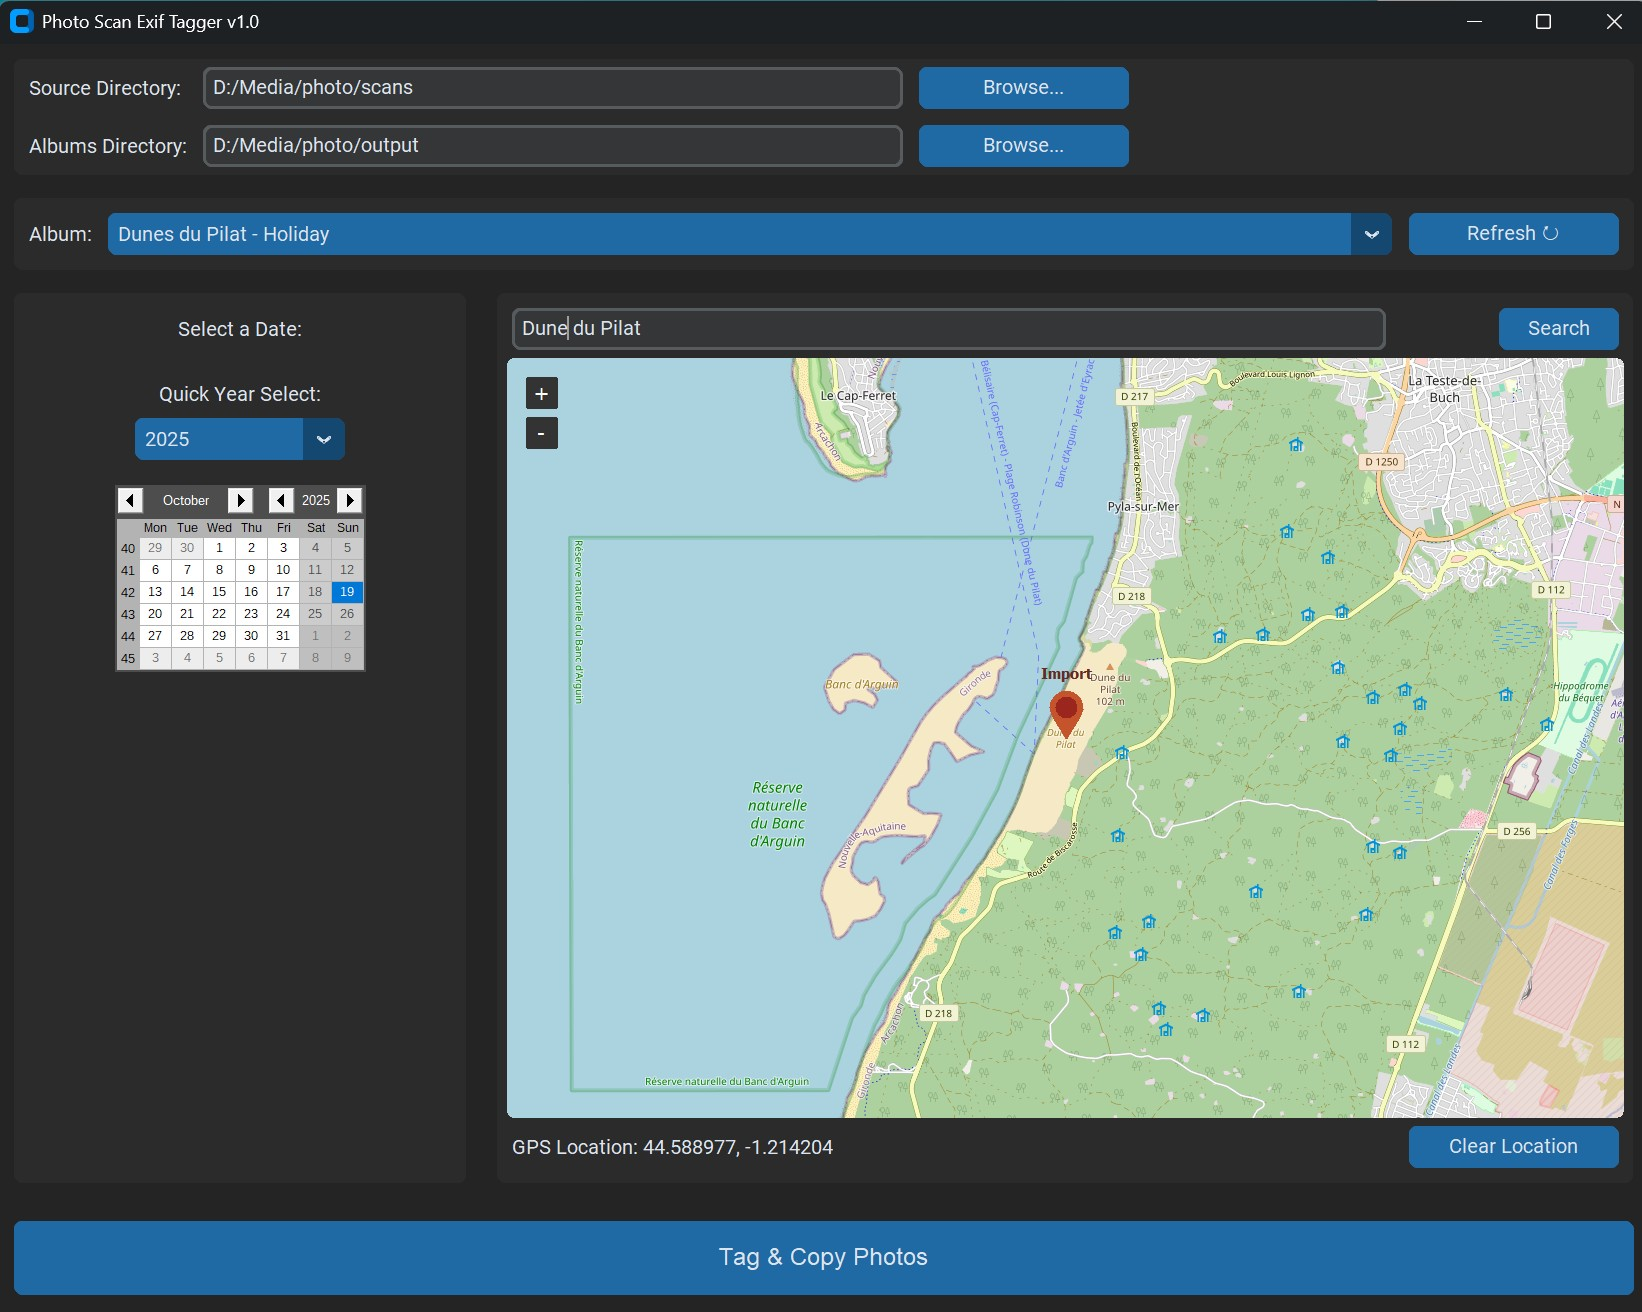
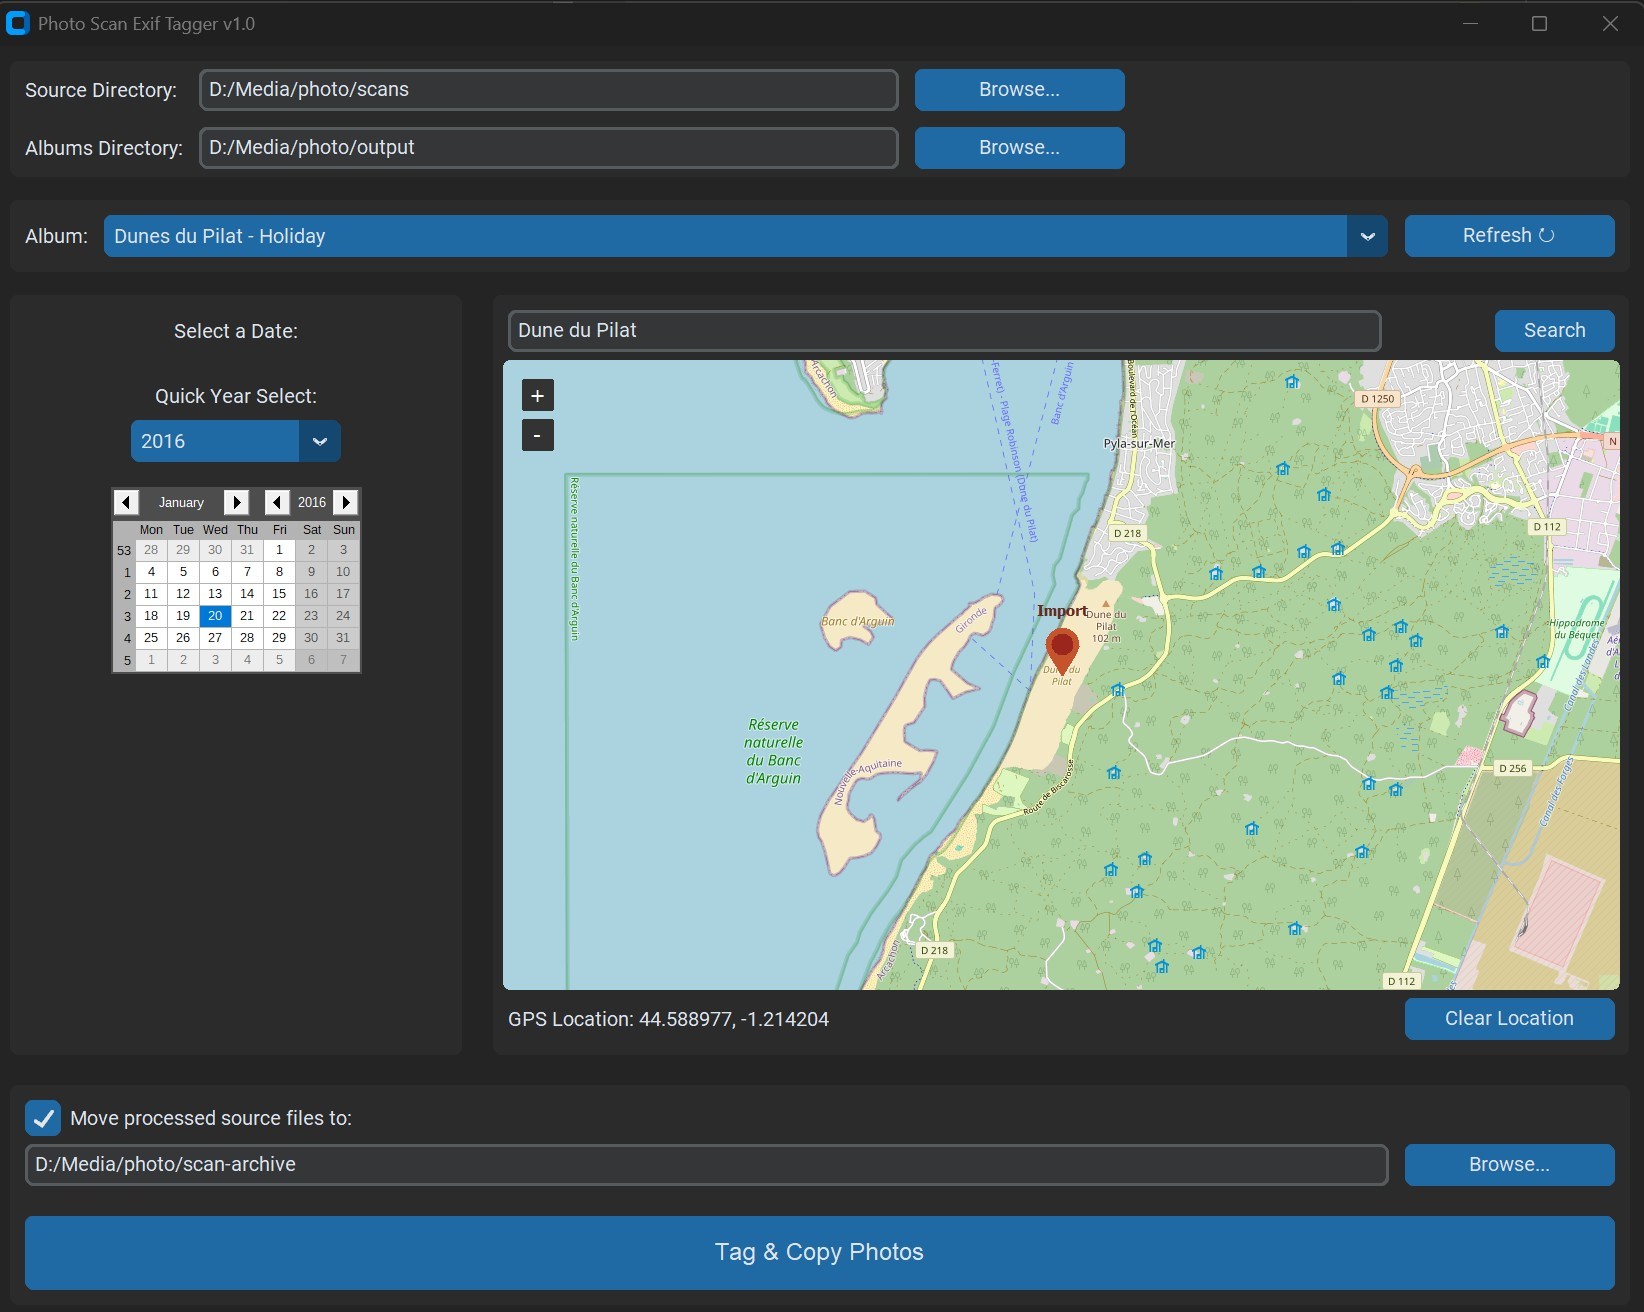
optional move to archive folder

diff --git a/tagger.py b/tagger.py
@@ -26,6 +26,11 @@ class PhotoImporterApp(ctk.CTk):
         self.selected_album = ctk.StringVar()
         self.selected_gps = None  # Will store (latitude, longitude)
         self.map_marker = None
+        
+        # --- NEW: Variables for Move feature ---
+        self.enable_move = ctk.BooleanVar(value=False)
+        self.move_dest_dir = ctk.StringVar()
+        # -------------------------------------
 
         # Configure the main grid
         # Column 1 (map) will be wider
@@ -158,8 +163,38 @@ class PhotoImporterApp(ctk.CTk):
 
     ## 5. Action (Import) Widget
     def create_action_widgets(self):
-        self.import_button = ctk.CTkButton(self, text="Tag & Copy Photos", height=50, command=self.run_import, font=("Arial", 16))
-        self.import_button.grid(row=3, column=0, columnspan=2, padx=10, pady=15, sticky="ew")
+        # Create a frame to hold all action widgets
+        action_frame = ctk.CTkFrame(self)
+        action_frame.grid(row=3, column=0, columnspan=2, padx=10, pady=10, sticky="ew")
+        
+        action_frame.grid_columnconfigure(1, weight=1) # Make entry field expand
+
+        # --- NEW: Move "Archive" Option ---
+        self.move_checkbox = ctk.CTkCheckBox(action_frame, 
+                                             text="Move processed source files to:",
+                                             variable=self.enable_move,
+                                             command=self.toggle_move_widgets)
+        self.move_checkbox.grid(row=0, column=0, padx=(10, 5), pady=(10, 5), sticky="w")
+        
+        self.move_entry = ctk.CTkEntry(action_frame, 
+                                       textvariable=self.move_dest_dir, 
+                                       state="disabled")
+        self.move_entry.grid(row=1, column=0, columnspan=2, padx=(10, 5), pady=(0, 10), sticky="ew")
+        
+        self.move_browse_button = ctk.CTkButton(action_frame, 
+                                                text="Browse...", 
+                                                state="disabled", 
+                                                command=self.select_move_dest)
+        self.move_browse_button.grid(row=1, column=2, padx=(5, 10), pady=(0, 10))
+        # --- End New Widgets ---
+
+        # Main Import Button
+        self.import_button = ctk.CTkButton(action_frame, 
+                                           text="Tag & Copy Photos", 
+                                           height=50, 
+                                           command=self.run_import, 
+                                           font=("Arial", 16))
+        self.import_button.grid(row=2, column=0, columnspan=3, padx=10, pady=(10, 10), sticky="ew")
 
     def select_source(self):
         path = filedialog.askdirectory(title="Select Source Directory")
@@ -170,16 +205,20 @@ class PhotoImporterApp(ctk.CTk):
         path = filedialog.askdirectory(title="Select Target Directory (parent of albums)")
         if path:
             self.target_dir.set(path)
-
+            
+            # --- NEW CHECK ---
             try:
+                # Check for subdirectories (albums)
                 subdirs = [d for d in os.listdir(path) if os.path.isdir(os.path.join(path, d))]
                 if not subdirs:
                     messagebox.showwarning("Empty Directory", 
                                          "This folder is empty.\n\nThe 'Albums Directory' should be a parent folder that already contains subfolders (albums).")
             except Exception as e:
                 messagebox.showerror("Error", f"Could not read directory: {e}")
+            # --- END CHECK ---
             
             self.refresh_albums() # This will still run to update the list
+            
     def refresh_albums(self):
         target = self.target_dir.get()
         if not os.path.isdir(target):
@@ -234,11 +273,35 @@ class PhotoImporterApp(ctk.CTk):
             self.map_marker.delete()
             self.map_marker = None
 
+    def toggle_move_widgets(self):
+        """Enables or disables the 'Move to' widgets based on the checkbox."""
+        if self.enable_move.get():
+            self.move_entry.configure(state="normal")
+            self.move_browse_button.configure(state="normal")
+        else:
+            self.move_entry.configure(state="disabled")
+            self.move_browse_button.configure(state="disabled")
+
+    def select_move_dest(self):
+        """Selects the destination folder for moving processed files."""
+        path = filedialog.askdirectory(title="Select 'Move To' Destination Folder")
+        if path:
+            self.move_dest_dir.set(path)
+            
     def run_import(self):
         # 1. Validation
         source = self.source_dir.get()
         target = self.target_dir.get()
         album = self.selected_album.get()
+        
+        # --- NEW: Get and Validate Move options ---
+        move_enabled = self.enable_move.get()
+        move_dest = self.move_dest_dir.get()
+        
+        if move_enabled and not os.path.isdir(move_dest):
+            messagebox.showerror("Invalid Path", "The 'Move to' directory is not valid or not selected.")
+            return
+        # -------------------------------------------
 
         if not all([source, target, album]) or album == "(No albums found)":
             messagebox.showerror("Incomplete Fields", "Please select a source directory, target directory, and a valid album.")
@@ -264,13 +327,16 @@ class PhotoImporterApp(ctk.CTk):
         print("="*30)
         print(f"[Debug] Import started with Date: {selected_date}")
         print(f"[Debug] Import started with GPS: {gps_data if gps_data else 'None'}")
+        print(f"[Debug] Move processed files: {move_enabled}")
+        if move_enabled:
+            print(f"[Debug] Move destination: {move_dest}")
         print("="*30)
         # ----------------------
         
-        # 3. Start process
-        self.process_files(source, destination_path, exif_date_bytes, gps_data)
+        # 3. Start process (pass new options)
+        self.process_files(source, destination_path, exif_date_bytes, gps_data, move_enabled, move_dest)
 
-    def process_files(self, source_dir, dest_dir, exif_date, gps_data):
+    def process_files(self, source_dir, dest_dir, exif_date, gps_data, move_enabled, move_dest):
 
         image_files = [f for f in os.listdir(source_dir) 
                        if f.lower().endswith(('.jpg', '.jpeg'))]
@@ -283,6 +349,10 @@ class PhotoImporterApp(ctk.CTk):
         processed_count = 0
         error_count = 0
         error_list = [] 
+        
+        # --- NEW: List to track successful files for moving ---
+        successfully_processed_files = [] 
+        # ------------------------------------------------------
 
         progress_window = ctk.CTkToplevel(self)
         progress_window.title("Import in progress...")
@@ -351,11 +421,38 @@ class PhotoImporterApp(ctk.CTk):
                 img.close()
                 
                 processed_count += 1
+                
+                # --- NEW: Add to success list for moving ---
+                successfully_processed_files.append((source_file, filename))
+                # -------------------------------------------
 
             except Exception as e:
                 print(f"Error while processing {filename}: {e}")
                 error_count += 1
                 error_list.append(filename)
+        
+        # --- NEW: Move files AFTER processing loop is complete ---
+        if move_enabled:
+            print(f"\n[Debug] Moving {len(successfully_processed_files)} successfully processed files...")
+            # Update progress bar for the move operation
+            progress_label.configure(text=f"Moving 0 / {len(successfully_processed_files)} files...")
+            total_moved = len(successfully_processed_files)
+            
+            for i, (source_file_path, base_filename) in enumerate(successfully_processed_files):
+                progress_label.configure(text=f"Moving {i+1} / {total_moved}: {base_filename}")
+                progress_bar.set((i + 1) / total_moved)
+                self.update_idletasks()
+                
+                try:
+                    move_dest_path = os.path.join(move_dest, base_filename)
+                    shutil.move(source_file_path, move_dest_path)
+                except Exception as e:
+                    print(f"[Error] Failed to move {base_filename}: {e}")
+                    # We still count the file as "processed", but the move failed.
+                    # This will just be reported in the console.
+            
+            print("[Debug] Move complete.")
+        # ---------------------------------------------------------
         
         # --- DEBUG MESSAGE ---
         print(f"\n[Debug] Processing complete. {processed_count} files tagged, {error_count} errors.")
@@ -366,6 +463,9 @@ class PhotoImporterApp(ctk.CTk):
         progress_window.destroy()
         
         msg = f"Import complete!\n\nPhotos processed: {processed_count}\nErrors: {error_count}"
+        if move_enabled:
+            msg += f"\nPhotos moved: {len(successfully_processed_files)}"
+            
         if error_count > 0:
             msg += f"\n\nFiles with errors (see console for details):\n" + "\n".join(error_list[:5])
             if error_count > 5:

diff --git a/README.md b/README.md
@@ -1,69 +1,58 @@
-
-
 # Photo Scan Exif Tagger
 
 A simple Python UI application designed to **batch-add** "Date Taken" and "GPS Location" EXIF tags to old photos, such as scanned images, and copy them into an existing album structure.
 
 This tool is perfect for integrating scanned family photos into modern photo management software like **Digikam**.
 
-
 ![Photo Tagger App Screenshot](./photo-importer.jpg)
 
 ## Features
 
-  * **Process Photos in Batches:** Apply a single date and location to an entire folder of photos at once (e.g., a full roll of film or a set of scans from one event).
-  * Select a source directory (of your scanned photos) and a target "Albums" directory.
-  * Automatically lists all sub-folders in your "Albums" directory as a dropdown.
-  * Select a "Date Taken" using a calendar with a fast "Quick Year Select" dropdown (1900-Present).
-  * Select a GPS location by searching for a city name or by right-clicking on an OpenStreetMap.
-  * Batch processes all `.jpg` or `.jpeg` files in the source directory.
-  * Writes the selected date to the **EXIF `DateTimeOriginal`** (Date Taken) and **`DateTimeDigitized`** tags.
-  * Writes the selected location to the **EXIF GPS** tags (if a location is set).
-  * Copies the newly tagged photos into the selected album folder, leaving your original scans untouched.
+* **Process Photos in Batches:** Apply a single date and location to an entire folder of photos at once (e.g., a full roll of film or a set of scans from one event).
+* Select a source directory (of your scanned photos) and a target "Albums" directory.
+* Automatically lists all sub-folders in your "Albums" directory as a dropdown.
+* Select a "Date Taken" using a calendar with a fast "Quick Year Select" dropdown (1900-Present).
+* Select a GPS location by searching for a city name or by right-clicking on an OpenStreetMap.
+* Writes the selected date to the **EXIF `DateTimeOriginal`** (Date Taken) and **`DateTimeDigitized`** tags.
+* Writes the selected location to the **EXIF GPS** tags (if a location is set).
+* Copies the newly tagged photos into the selected album folder, leaving your original scans untouched.
+* **Optionally move processed source files** to an "archive" folder to clean up your "scans" directory.
 
------
+---
 
 ## Installation
 
 1.  **Get Python:** Make sure you have Python installed on your system. You can download it from [python.org](https://python.org).
-
 2.  **Get the Script:** Save the Python script (e.g., `photo_importer.py`) to a folder on your computer.
-
 3.  **Install Libraries:** Open a terminal or command prompt and install the required libraries using `pip`:
 
     ```bash
     pip install customtkinter tkcalendar tkintermapview pillow piexif
     ```
 
------
+---
 
 ## How to Use
 
 1.  Run the script from your terminal:
 
     ```bash
-    python tagger.py
+    python photo_importer.py
     ```
 
 2.  **Source Directory:** Browse to the folder containing your scanned `.jpg` photos.
-
 3.  **Albums Directory:** Browse to the **parent** folder that contains all your albums (e.g., `D:\My Pictures\Albums`).
-
 4.  **Album:** Select the destination album from the dropdown. This folder **must already exist** inside your "Albums Directory".
-
-      * Click **Refresh ↻** if you create a new album folder while the app is open.
-
+    * Click **Refresh ↻** if you create a new album folder while the app is open.
 5.  **Date:** Select the "Date Taken" for the photos using the calendar or the "Quick Year Select" dropdown.
-
 6.  **Location:**
+    * Type a city name (e.g., "Paris") and click **Search**. The map will center and set a marker.
+    * *Alternatively*, right-click anywhere on the map to set a precise location.
+    * Click **Clear Location** if you do not want to add GPS tags.
+7.  **(Optional) Archive Files:** Check the "Move processed source files to:" box and browse to a folder where you want your *original scans* to be moved after they are tagged and copied.
+8.  **Start Import:** Click the large "Tag & Copy Photos" button. The app will process **all photos in the source folder as a single batch**, adding the selected date/location, copying them, and then moving the originals (if selected).
 
-      * Type a city name (e.g., "Paris") and click **Search**. The map will center and set a marker.
-      * *Alternatively*, right-click anywhere on the map to set a precise location.
-      * Click **Clear Location** if you do not want to add GPS tags.
-
-7.  **Start Import:** Click the large "Start Import" button. The app will process **all photos in the source folder as a single batch**, adding the selected date and location to every file before copying them to the destination album.
-
------
+---
 
 ## Using with Digikam (or other Photo Managers)
 
@@ -77,7 +66,7 @@ This tool is designed to work perfectly with any photo management software that 
 
 Digikam will read the newly copied files and automatically detect the **Date Taken** and **GPS Location** from the EXIF tags you just added. Your old scans will now appear correctly on Digikam's timeline and map views.
 
------
+---
 
 ## Troubleshooting
 
